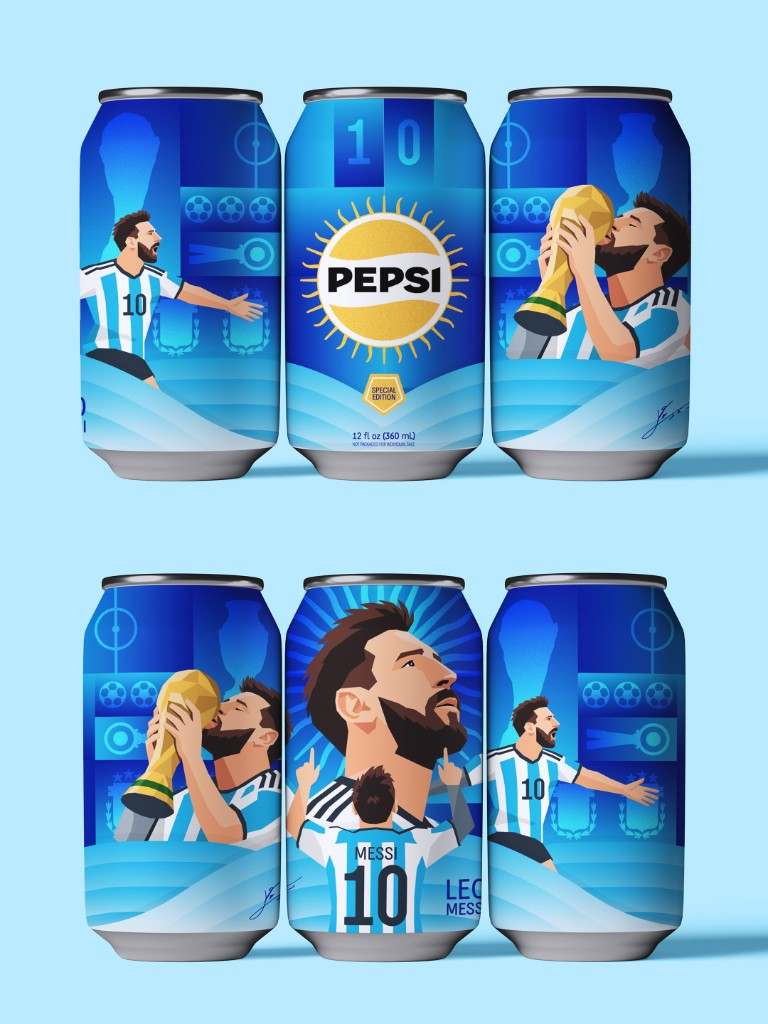
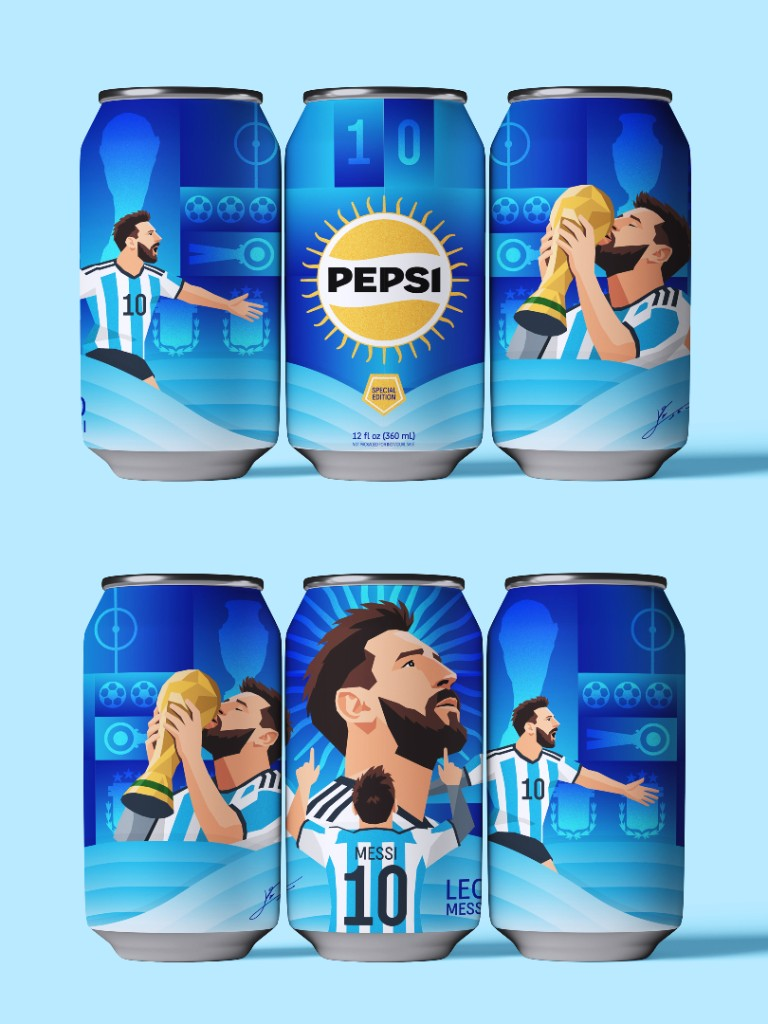
Replace the Gracias Leo images with higher-quality exports.

diff --git a/content/graphic.ts b/content/graphic.ts
@@ -128,7 +128,7 @@ export const graphicProjects: GraphicProject[] = [
       {
         src: "/media/graphic/pepsi-gracias-leo-label.jpg",
         width: 1024,
-        height: 455,
+        height: 497,
         alt: "Gracias Leo can label with Messi, the World Cup, and the number 10",
       },
     ],
